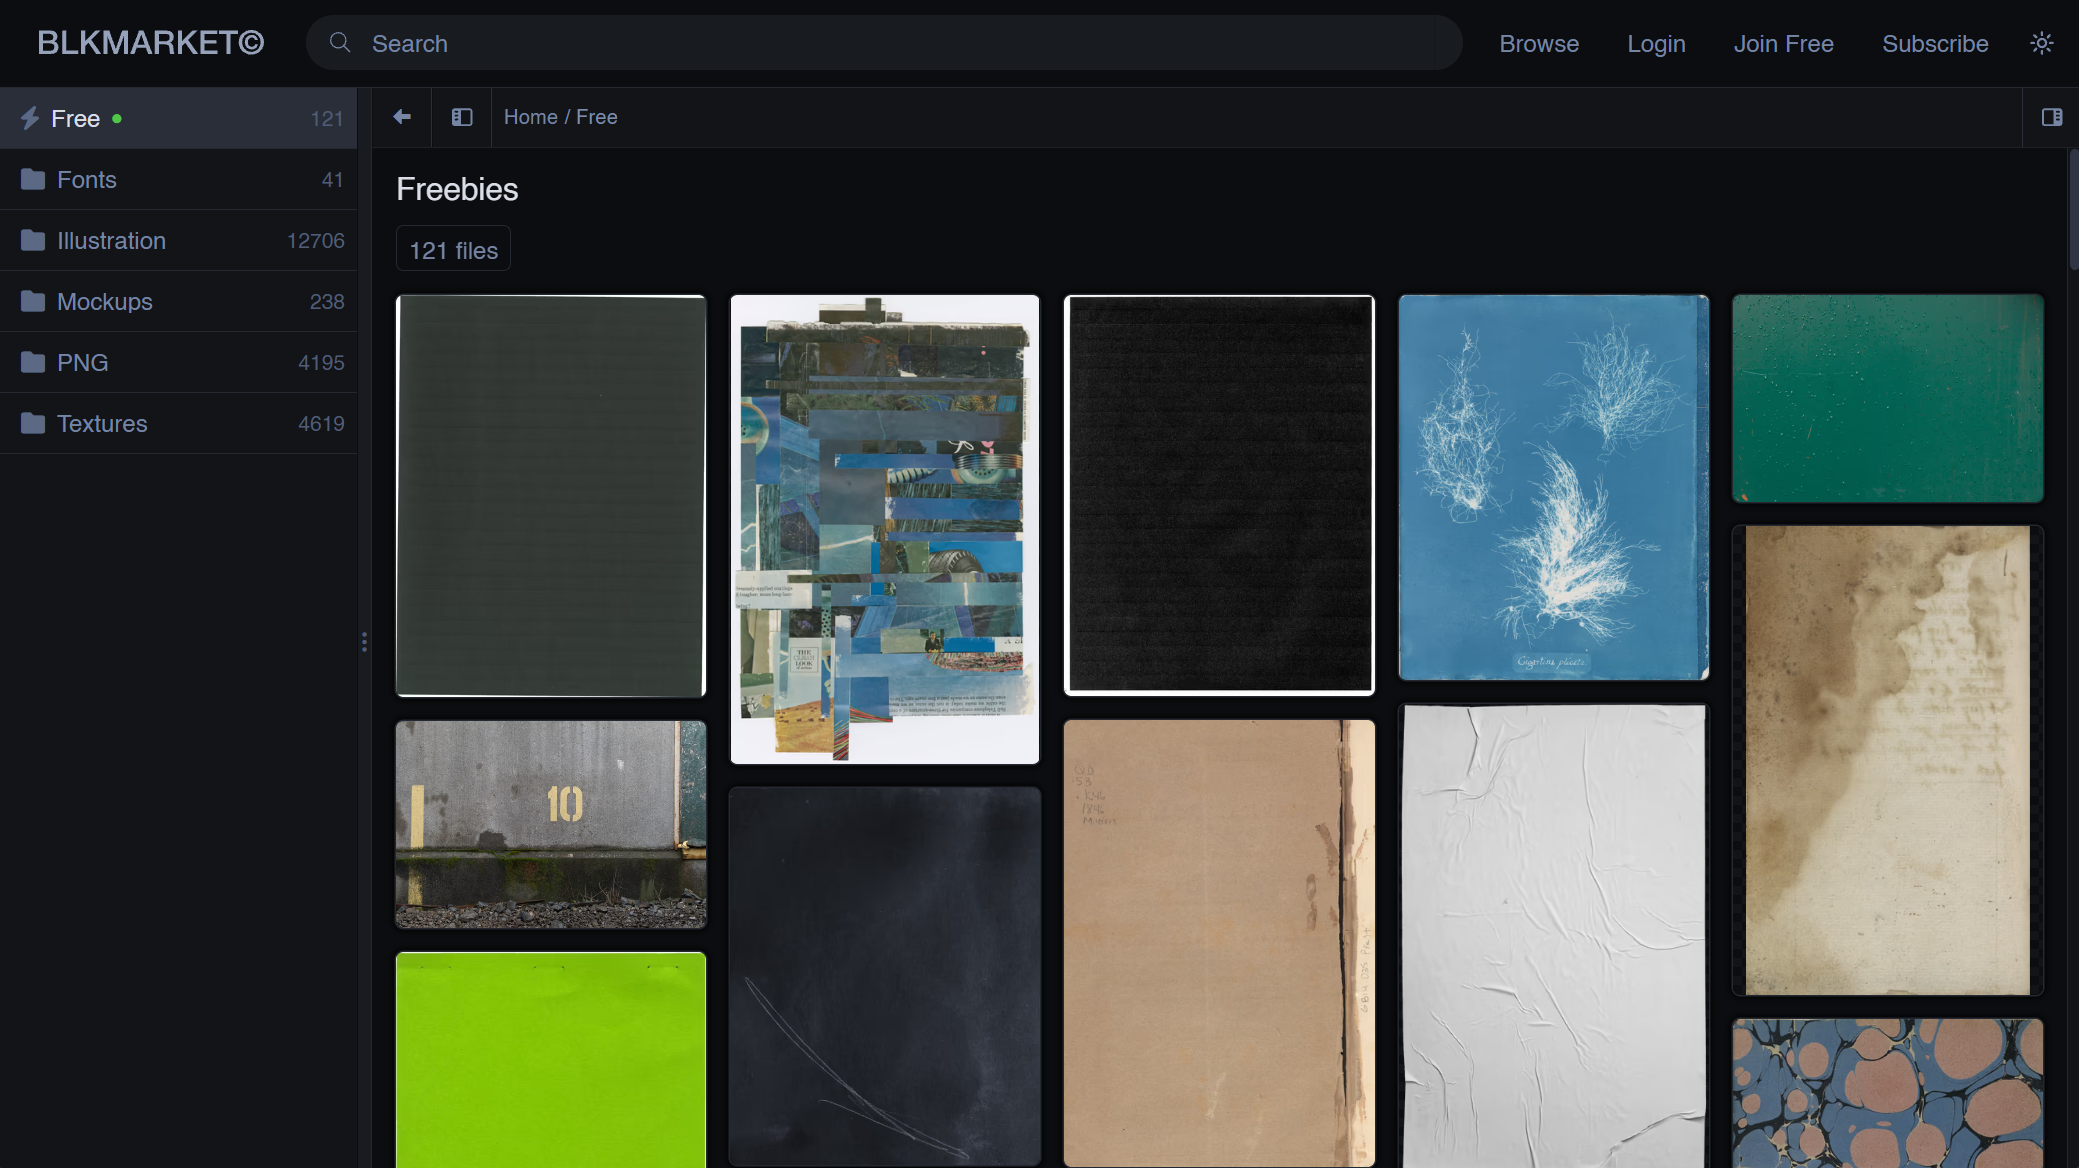
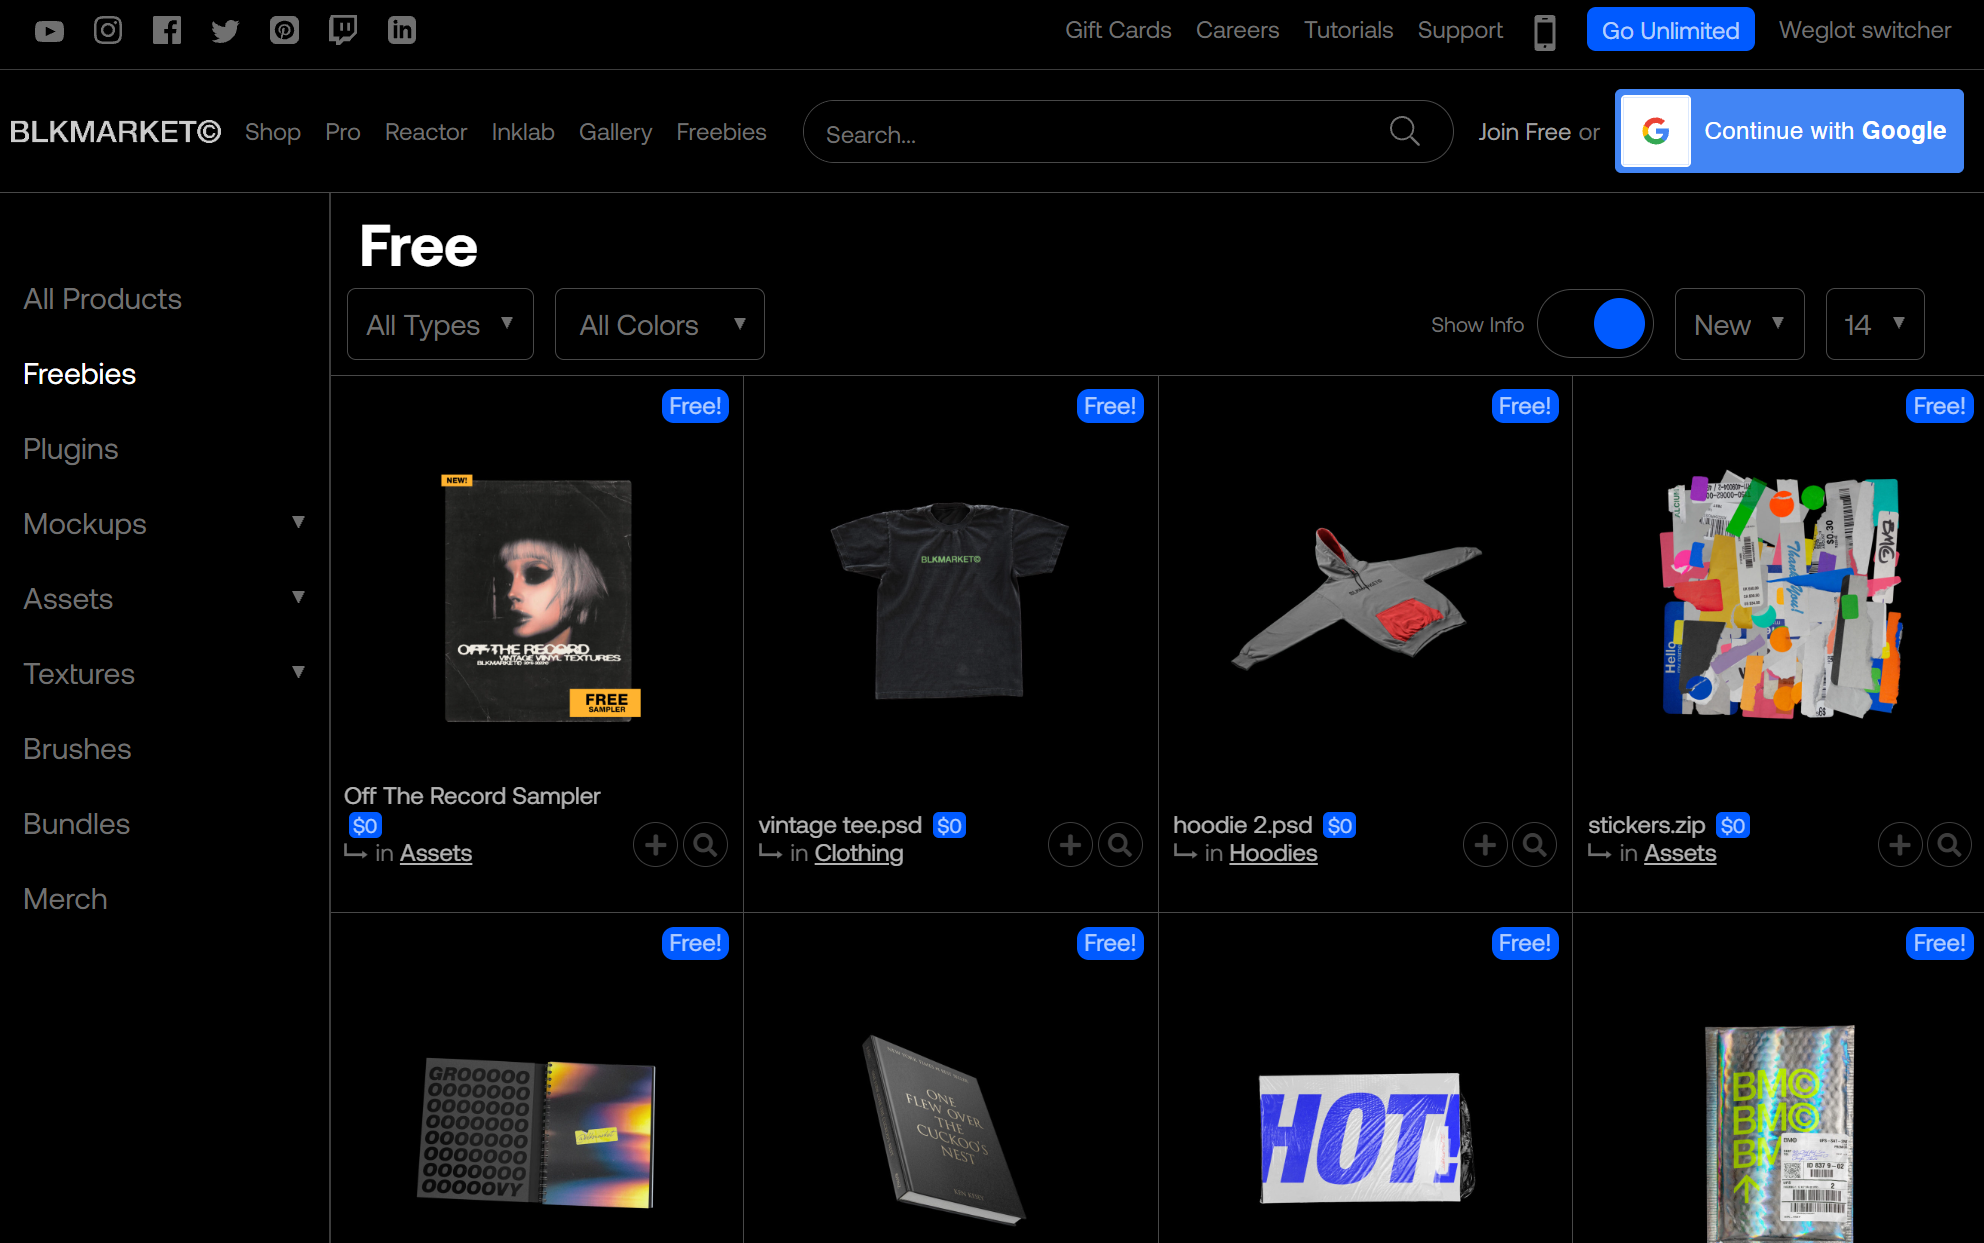
gathered.tools v1.0.0

diff --git a/parser.js b/parser.js
@@ -56,7 +56,9 @@ async function fetchAllFeeds(urls) {
             const data = await response.json();
 
             if (data["tooldata-version"] === "v2") {
-                allTools = allTools.concat(data.tools);
+                // Attach _feedUrl to each tool for sorting later
+                const toolsWithFeed = data.tools.map(tool => ({ ...tool, _feedUrl: feedUrl }));
+                allTools = allTools.concat(toolsWithFeed);
                 feedsMetadata.push({
                     url: feedUrl,
                     name: data["feed-name"],
@@ -79,6 +81,37 @@ async function fetchAllFeeds(urls) {
         };
     }
 }
+
+
+// name (:
+
+function credits() {
+    console.log(`%c
+███╗   ██╗██╗ ██████╗██╗  ██╗                 
+████╗  ██║██║██╔════╝██║ ██╔╝                 
+██╔██╗ ██║██║██║     █████╔╝                  
+██║╚██╗██║██║██║     ██╔═██╗                  
+██║ ╚████║██║╚██████╗██║  ██╗                 
+╚═╝  ╚═══╝╚═╝ ╚═════╝╚═╝  ╚═╝                 
+%c                                              
+███████╗██╗ ██████╗ ███╗   ██╗███████╗██████╗ 
+██╔════╝██║██╔════╝ ████╗  ██║██╔════╝██╔══██╗
+█████╗  ██║██║  ███╗██╔██╗ ██║█████╗  ██████╔╝
+██╔══╝  ██║██║   ██║██║╚██╗██║██╔══╝  ██╔══██╗
+██║     ██║╚██████╔╝██║ ╚████║███████╗██║  ██║
+╚═╝     ╚═╝ ╚═════╝ ╚═╝  ╚═══╝╚══════╝╚═╝  ╚═╝
+%c
+(c) 2026 gathered.tools by Nick Figner. All rights reserved. nickfigner.com
+%c`,
+
+   "color: #28AFD4; font-family: monospace;", 
+   "color: #28afd494; font-family: monospace;", 
+   "background-color: #222317; color: #606140; font-family: monospace; font-weight: bold;", 
+   "");
+}
+
+window.onload = credits;
+
 
 // --- FILTERING LOGIC ---
 function setFilter(type, value) {
@@ -321,11 +354,19 @@ function renderTools() {
     }
 
     if ((!activeTags || activeTags.length === 0) && !activePricing) {
-        // 3. Sort: If no filters are active, push highlighted tools to the top!
+        // Sort: Highlighted tools first, then by newest feed order, with non-highlighted serviceFeed tools always at the bottom
         toolsToRender.sort((a, b) => {
             if (a.highlight && !b.highlight) return -1;
             if (!a.highlight && b.highlight) return 1;
-            return 0;
+            // Non-highlighted serviceFeed tools always at the bottom
+            const aIsService = !a.highlight && a._feedUrl === serviceFeed;
+            const bIsService = !b.highlight && b._feedUrl === serviceFeed;
+            if (aIsService && !bIsService) return 1;
+            if (!aIsService && bIsService) return -1;
+            // Otherwise, sort by newest feed order
+            const aFeedIdx = activeFeedUrls.lastIndexOf(a._feedUrl);
+            const bFeedIdx = activeFeedUrls.lastIndexOf(b._feedUrl);
+            return bFeedIdx - aFeedIdx;
         });
     }
 

diff --git a/index.html b/index.html
@@ -84,7 +84,7 @@
 
                         <h3>Copyright</h3>
                         <p>gathered.tools by Nick Figner<br>
-                            <a href="#">read the sotry</a><br><br>
+                            <a href="https://nickfigner.com/projects/gathered-tools/">read the sotry</a><br><br>
                             All logos are properties of their respective owners.<br><br>
                             (c) 2026 Nick Figner. All rights reserved.</p>
         </div>

diff --git a/docs/index.html b/docs/index.html
@@ -45,7 +45,7 @@
 <body>
 
     <a href="..">
-    <img src="/data/logo.svg" alt="gathered.tools logo" class="logo" style="position: fixed; top: 20px; left: 20px; height: 30px; z-index: 1000; -webkit-user-drag: none;">
+    <img src="/data/logo.svg" alt="gathered.tools logo" class="logo" style="position: fixed; top: 20px; left: 20px; height: 30px; z-index: 1000;">
     </a>
 
     <div class="container">

diff --git a/styles.css b/styles.css
@@ -469,6 +469,8 @@ button:active {
     display: flex;
     justify-content: space-between;
     margin-bottom: 1.5rem;
+    /* position: sticky;
+    top: 0; */
 }
 
 .feed-item {

diff --git a/docs/index copy.md b/docs/index copy.md
@@ -1,0 +1,43 @@
+---
+Title: Feed Development
+---
+[back](..).
+@[Video](../data/gatheredtoolsv2.mp4 "autoplay")
+
+
+
+## Template
+Copy the template below and start to edit it. Add tools by duplicating from "id" to the second last square bracket ( ] ). Remember to add commas to every tool except the last one.
+```JSON
+{
+  "feed-name": "Feed Name",
+  "feed-icon": "/url/to/icon.png",
+  "feed-author": "Your Name",
+  "feed-author-src": "https://yourwebsite.com",
+  "updated": "2027-10-07",
+  "tooldata-version": "v2",
+  "tools": [
+    {
+      "id": "tool-id",
+      "name": "Tool Name",
+      "url": "https://tool.com",
+      "description": "All your descriptions should have a similar length.",
+      "image": "/path/to/thumbnail.png",
+      "pricing": "free",
+      "highlight":false,
+      "tags": [
+        "add",
+        "tags",
+        "here"]
+    }
+  ]
+}
+```
+
+## Use your Feed
+For the feed to appear in gathered.tools, you need to upload the json on a webserver. Free options are e.g. GitHub. Copy the link to the json (**Note:** You have to use the RAW link to the JSON. It has to end with "../your-file.json".). Visit gathered.tools, click on the settings icon and paste the link into the input field. Click "Add Feed" and wait for the feed to update.
+
+---
+(c) 2026 [Nick Figner](https://nickfigner.com/). All rights reserved.
+Made with [Nick's Markdown](https://nickfigner.com/nmd).
+

diff --git a/docs/index.md b/docs/index.md
@@ -7,7 +7,7 @@ Title: Feed Development
 
 
 ## Template
-
+Start by copying the JSON template below and editing the values. Want to add more tools? Just copy everything inside the curly braces `{ ... }` within the `tools` list and paste it right below. Just remember to add a comma between each tool (except for the last one!).
 ```JSON
 {
   "feed-name": "Feed Name",
@@ -33,6 +33,16 @@ Title: Feed Development
   ]
 }
 ```
+
+## Use your Feed
+To make your feed live on gathered.tools, you'll need to host your JSON file on a web server. GitHub is a fantastic, free option for this.
+
+Once your file is uploaded online, just follow these steps:
+1. **Get your RAW Link:** Copy the RAW link: Make sure you grab the direct, raw URL of your file (it should end with .json).
+2. **Open Settings:** Visit gathered.tools and click the settings icon in the top right.
+3. **Add your Feed:** Paste your RAW link into the input field and click "Add Feed".
+
+Your custom tools will sync and appear in your grid instantly! These changes are saved local on your device cache.
 
 ---
 (c) 2026 [Nick Figner](https://nickfigner.com/). All rights reserved.
